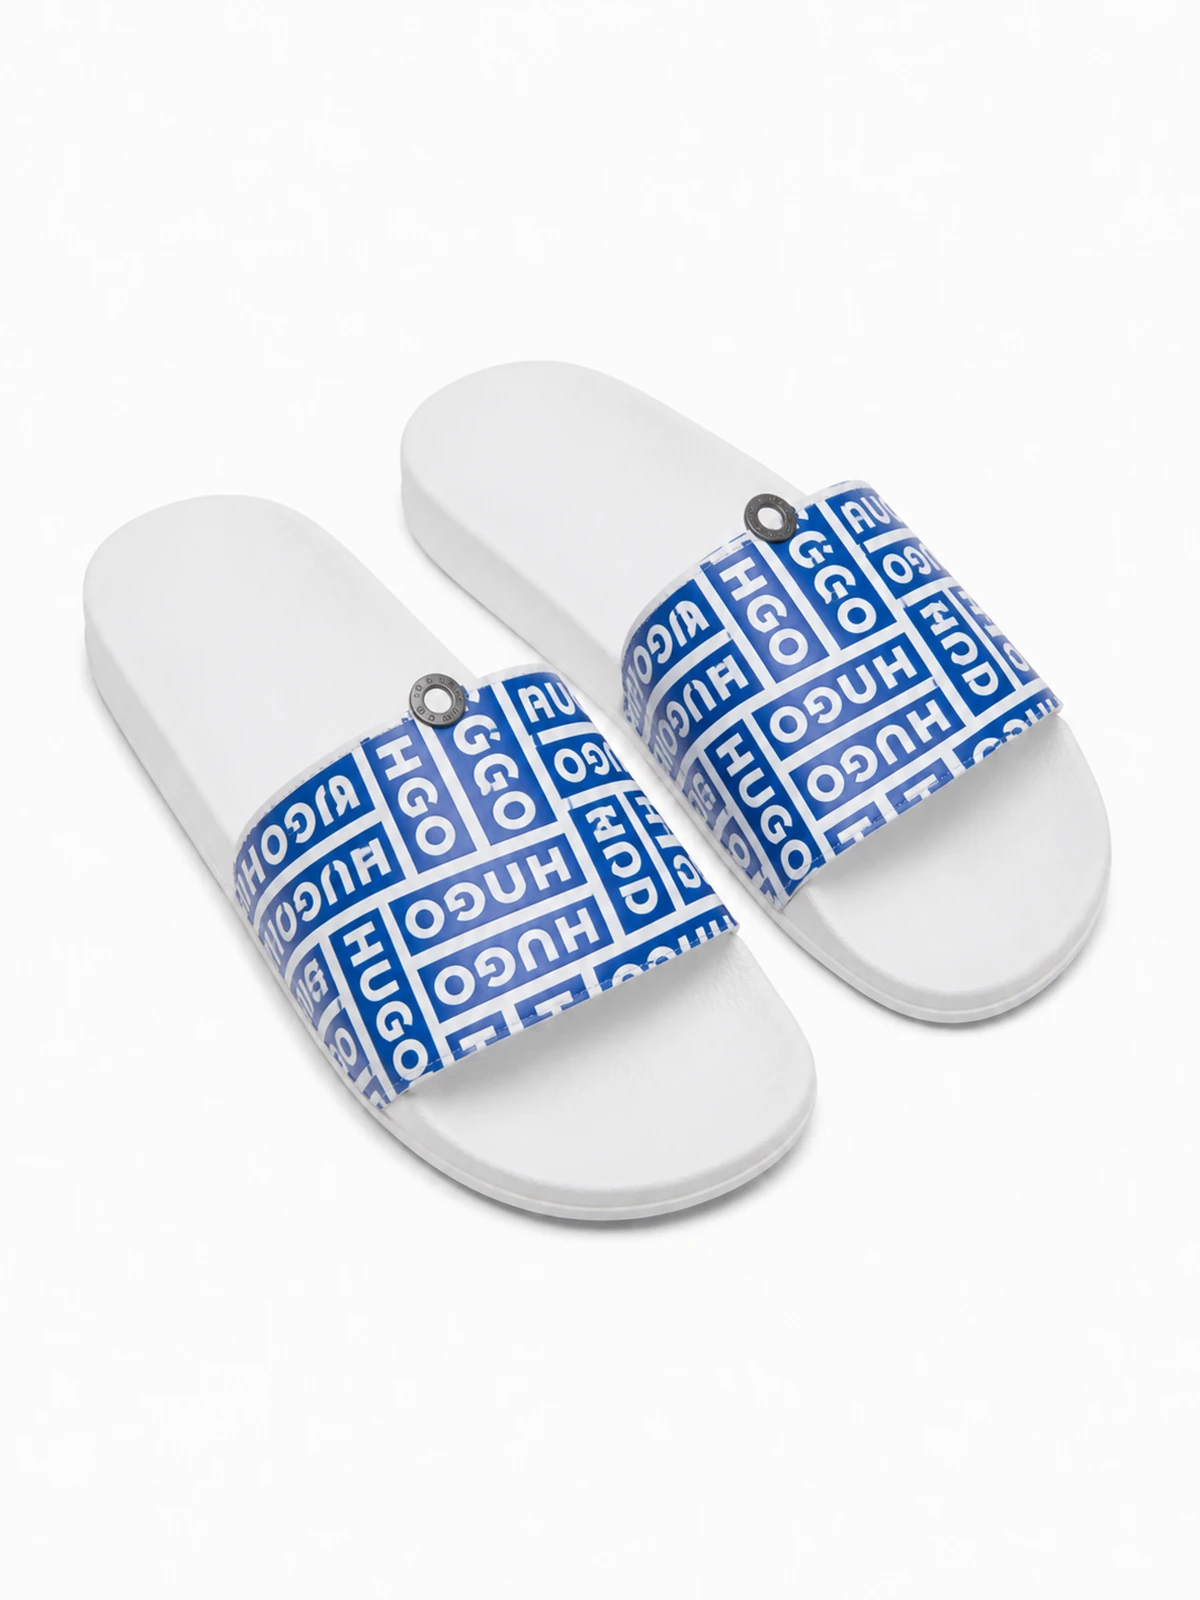
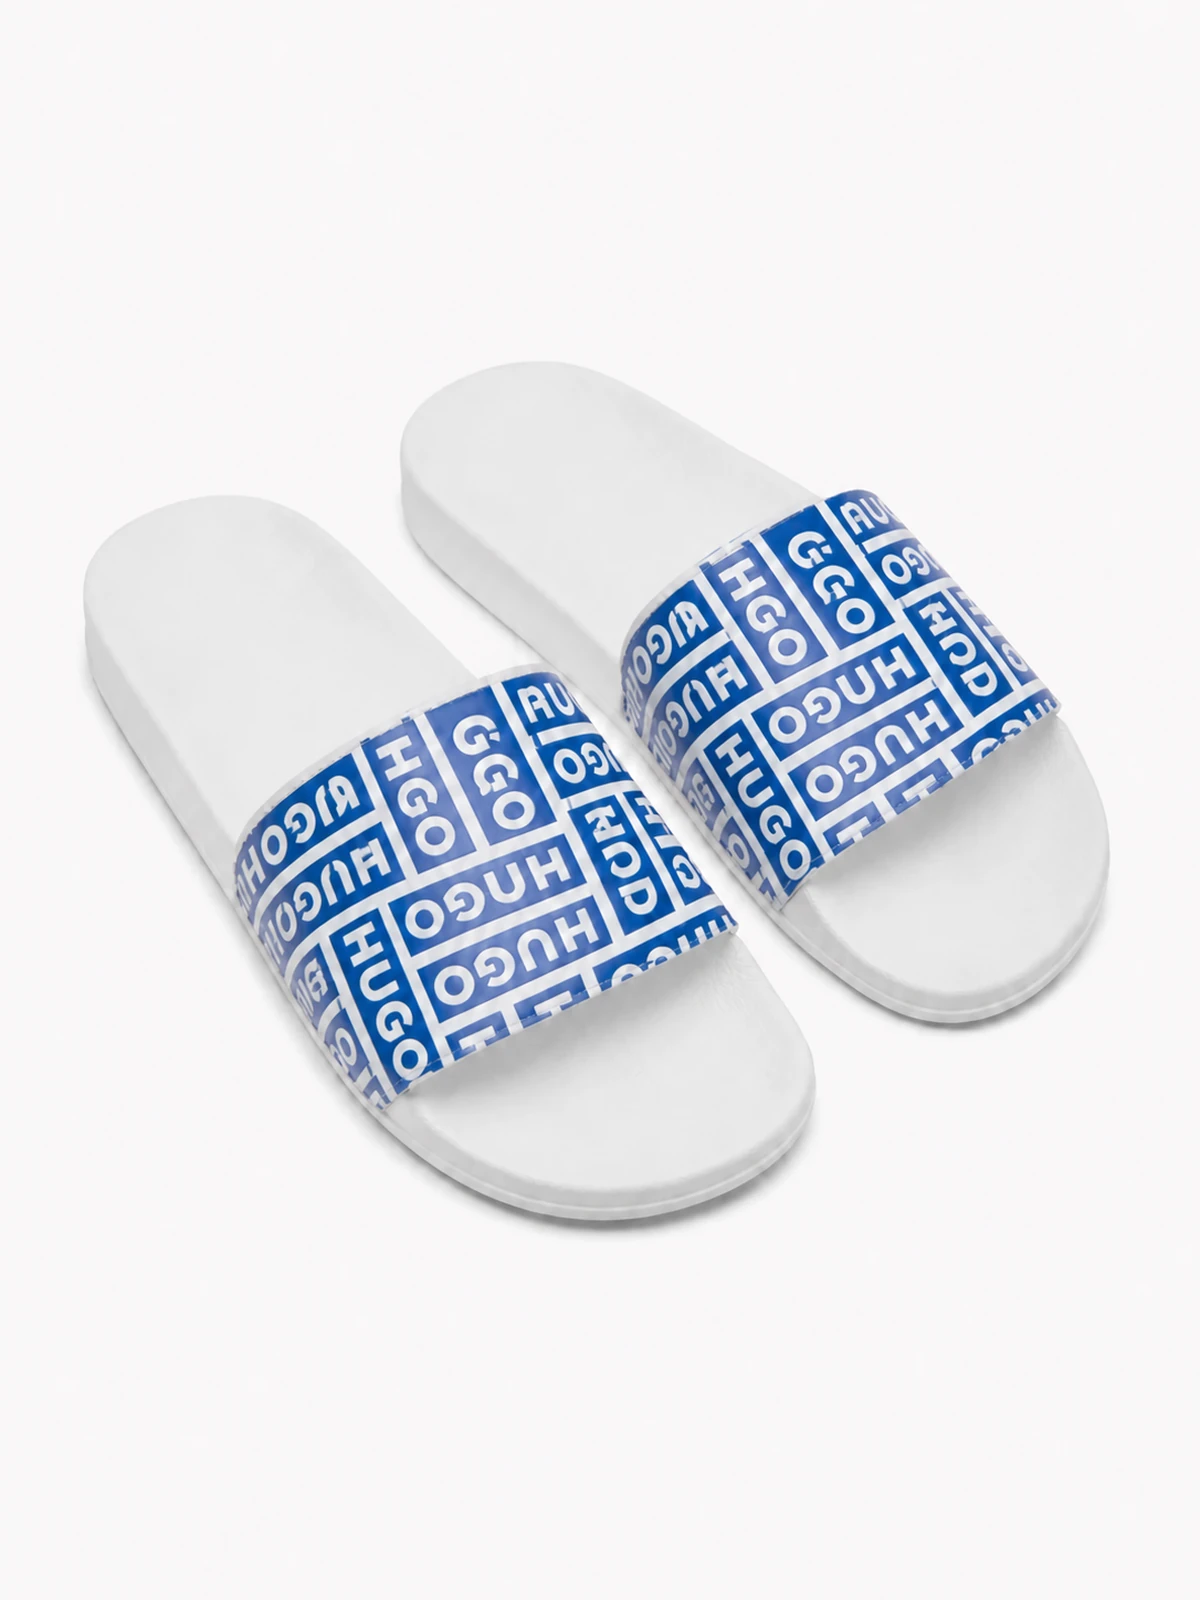
Retire les anneaux du visuel HUGO

diff --git a/JOURNAL-DE-REPRISE.md b/JOURNAL-DE-REPRISE.md
@@ -787,6 +787,11 @@ ID, fichier, coloris ou rattachement de marque ne manque. Commit `fa858b8`
 poussé sur `main`, déploiement Vercel confirmé. Le numéro WhatsApp modifié par
 l'utilisateur a été préservé.
 
+Correction visuelle complémentaire terminée : l'anneau visible derrière la
+chaussure dans la source 24 appartient à la boîte, pas au produit. Le retirer
+des deux chaussures HUGO sans toucher au motif, à l'angle ni au fond. Le WebP
+1200 × 1600 corrigé a été contrôlé visuellement et remplace l'ancien actif.
+
 Le brouillon administrateur n'est pas encore modifié : à la reconnexion, le
 dashboard signale un conflit entre un brouillon local non publié et la version
 serveur. Choisir l'une des deux versions supprimerait l'autre ; aucune option
